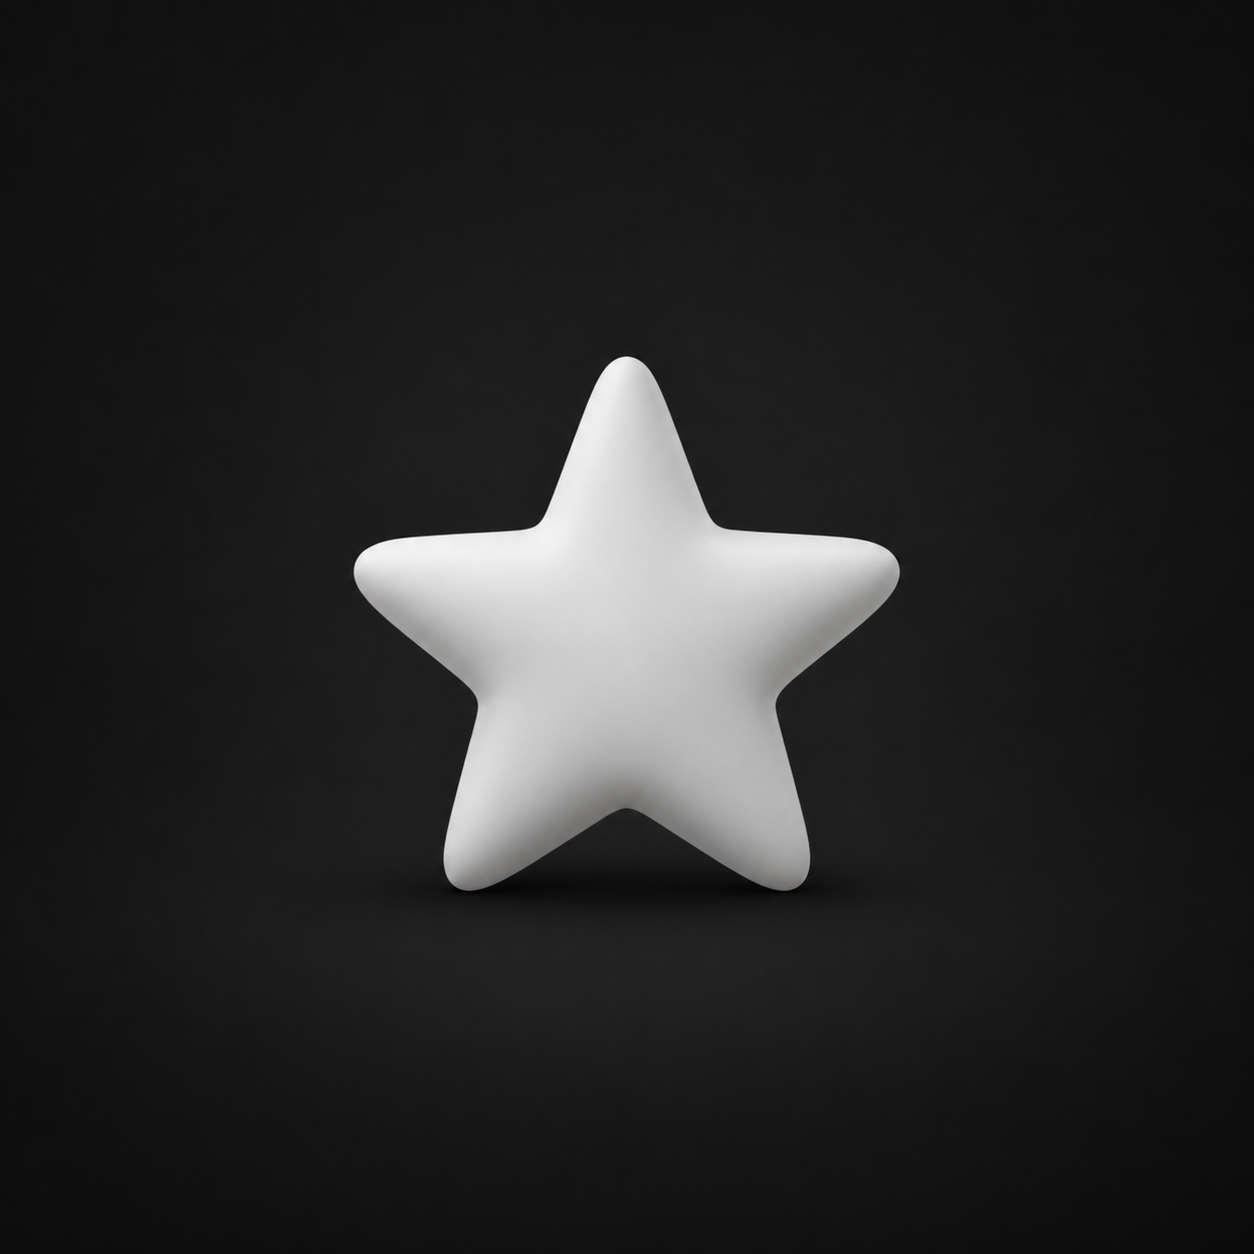
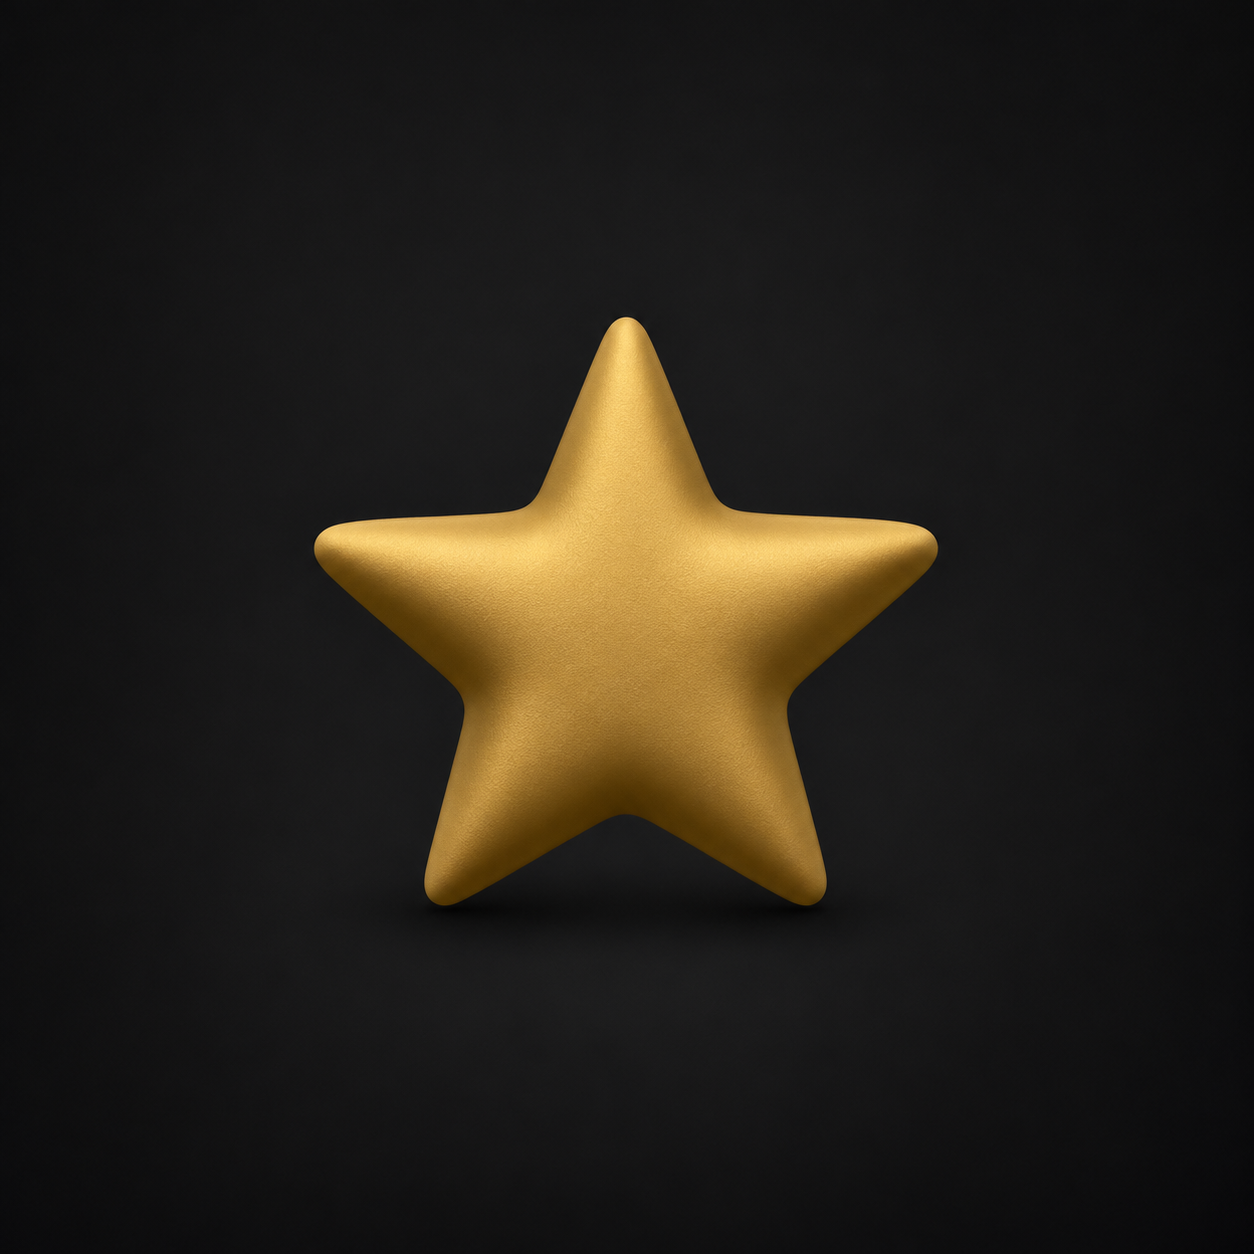
fix: capas de destaque em dourado fosco (ouro de coroa) + prévia do perfil atualizada
Define o tom da marca: dourado fosco sobre preto, sem brilho espelhado.
Inclui logo atual em REFERENCIAS e correção do nome do proprietário (Luiz).

Changed region(s): [[0.2488, 0.2488, 0.7464, 0.7464]]

diff --git a/02-CONTEUDO/review-instagram.html b/02-CONTEUDO/review-instagram.html
@@ -536,7 +536,7 @@
     </div>
 
     <div class="destaques-wrap">
-      <p>Capas criadas sob medida para o Rei dos Importados em 3D minimalista: objeto branco fosco sobre fundo grafite, mesmo estilo em todas &mdash; no padr&atilde;o preto e branco da marca. Nenhuma capa leva texto: o nome entra no t&iacute;tulo do pr&oacute;prio destaque, como o Instagram exibe abaixo do c&iacute;rculo. Ordem pensada no caminho do cliente: ver os aparelhos &rarr; ver oferta &rarr; resolver conserto &rarr; encomendar &rarr; confiar &rarr; achar a loja.</p>
+      <p>Capas criadas sob medida para o Rei dos Importados em 3D minimalista: objeto em dourado fosco &mdash; o ouro da coroa da marca, sem brilho espelhado &mdash; sobre fundo grafite, mesmo estilo em todas. Nenhuma capa leva texto: o nome entra no t&iacute;tulo do pr&oacute;prio destaque, como o Instagram exibe abaixo do c&iacute;rculo. Ordem pensada no caminho do cliente: ver os aparelhos &rarr; ver oferta &rarr; resolver conserto &rarr; encomendar &rarr; confiar &rarr; achar a loja.</p>
       <div class="destaques-row">
         <div class="destaque-item"><a href="capas-destaques/capa-celulares.png" download="capa-celulares.png"><div class="destaque-circ"><img src="capas-destaques/capa-celulares-thumb.jpg" alt="Capa Celulares" width="70" height="70" loading="lazy"></div><div class="destaque-nome">Celulares</div></a><a class="btn-baixar" href="capas-destaques/capa-celulares.png" download="capa-celulares.png">Baixar</a></div>
         <div class="destaque-item"><a href="capas-destaques/capa-promocoes.png" download="capa-promocoes.png"><div class="destaque-circ"><img src="capas-destaques/capa-promocoes-thumb.jpg" alt="Capa Promo&ccedil;&otilde;es" width="70" height="70" loading="lazy"></div><div class="destaque-nome">Promo&ccedil;&otilde;es</div></a><a class="btn-baixar" href="capas-destaques/capa-promocoes.png" download="capa-promocoes.png">Baixar</a></div>
